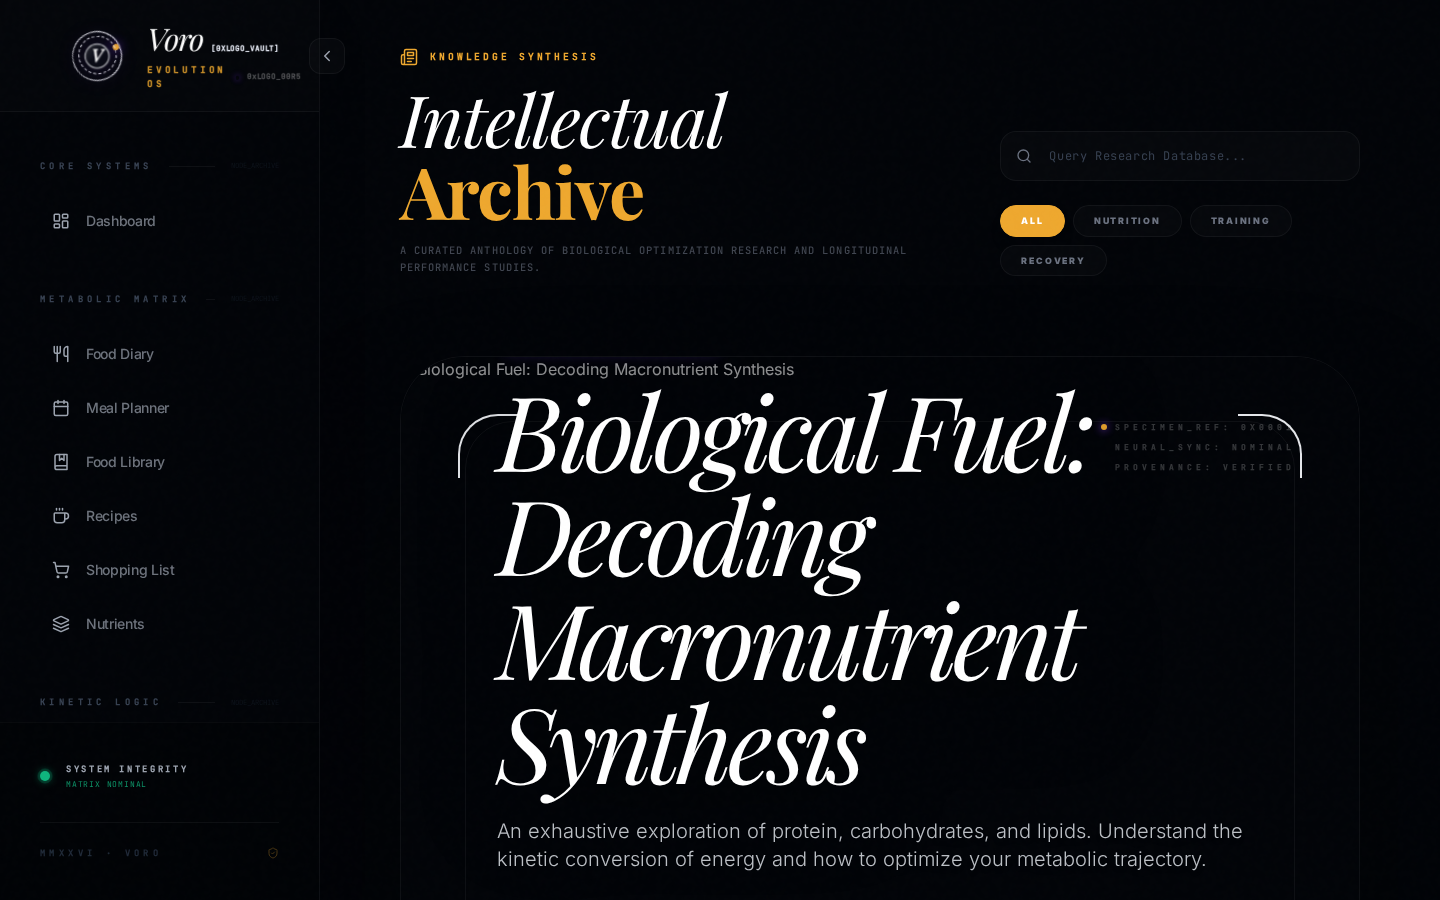
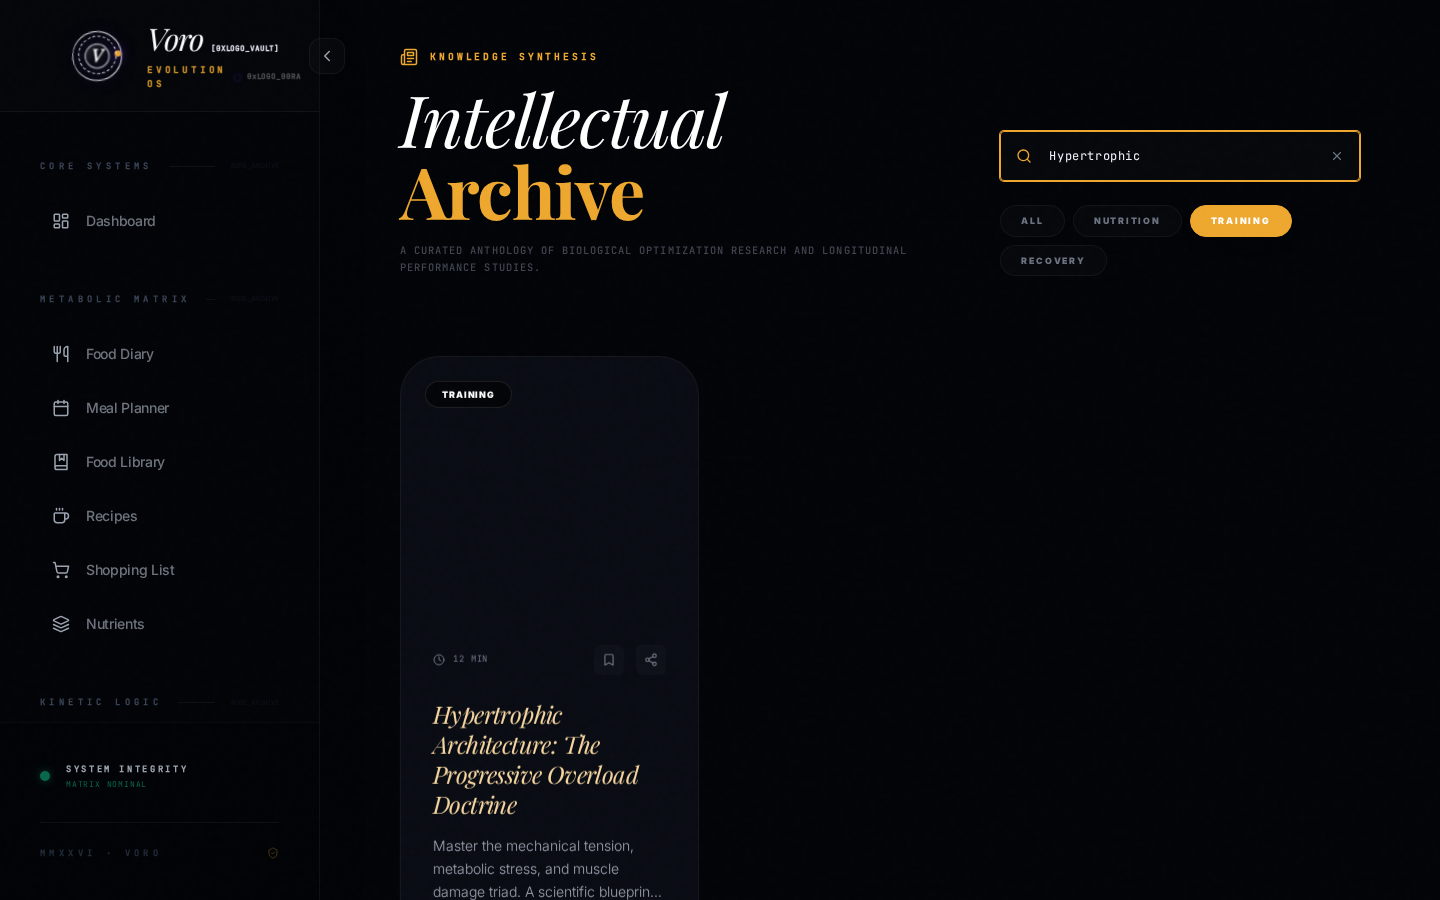
perf: optimize reactivity and zero-allocation interaction tracking (#729)
- FoodJournal: Hoist frozen selector and selectFoodJournal to eliminate array allocations on nullish storage snapshots; remove state updates on card focus/blur events.
- PRRecords: Wrap mouse and focus interaction handlers in ApexPRCard with useCallback.
- EducationHub: Wrap event handlers in DossierHero, EducationArticleCard, and EducationHub with useCallback for stable function references.
- Reports: Wrap mouse and focus interaction handlers in DossierReportCard and SecureExportEnclave with useCallback and stabilize export handler execution.

diff --git a/webs/src/pages/EducationHub.jsx b/webs/src/pages/EducationHub.jsx
@@ -1,4 +1,4 @@
-import React, { useEffect, useState, useMemo, useRef, memo, useDeferredValue } from 'react';
+import React, { useEffect, useState, useMemo, useCallback, useRef, memo, useDeferredValue } from 'react';
 import { BookOpen, Clock, ArrowUpRight, Search, Bookmark, Share2, Sparkles, Filter, Newspaper, Cpu, ShieldCheck, Activity, X } from 'lucide-react';
 import Card from '@/components/Card';
 import Button from '@/components/Button';
@@ -189,7 +189,7 @@ const DossierHero = memo(({ article, onAccessDossier }) => {
   const imageRef = useRef(null);
   const contentRef = useRef(null);
 
-  const handleMouseMove = (e) => {
+  const handleMouseMove = useCallback((e) => {
     if (!containerRef.current) return;
     const rect = containerRef.current.getBoundingClientRect();
     const x = e.clientX - rect.left;
@@ -207,16 +207,16 @@ const DossierHero = memo(({ article, onAccessDossier }) => {
 
     containerRef.current.style.setProperty('--mouse-x', `${x}px`);
     containerRef.current.style.setProperty('--mouse-y', `${y}px`);
-  };
+  }, []);
 
-  const handleMouseLeave = () => {
+  const handleMouseLeave = useCallback(() => {
     if (imageRef.current) {
       imageRef.current.style.transform = `scale(1) translate3d(0, 0, 0)`;
     }
     if (contentRef.current) {
       contentRef.current.style.transform = `translate3d(0, 0, 0) rotateX(0) rotateY(0)`;
     }
-  };
+  }, []);
 
   return (
     <section
@@ -331,7 +331,7 @@ const EducationArticleCard = memo(({ article, idx, isBookmarked, onToggleBookmar
   const isHoveredRef = useRef(false);
   const isFocusedRef = useRef(false);
 
-  const updateTransform = () => {
+  const updateTransform = useCallback(() => {
     if (!containerRef.current) return;
     const active = isHoveredRef.current || isFocusedRef.current;
     containerRef.current.style.transform = active
@@ -340,9 +340,9 @@ const EducationArticleCard = memo(({ article, idx, isBookmarked, onToggleBookmar
     containerRef.current.style.transition = isHoveredRef.current
       ? 'none'
       : 'transform 0.8s cubic-bezier(0.16, 1, 0.3, 1)';
-  };
+  }, []);
 
-  const handleMouseMove = (e) => {
+  const handleMouseMove = useCallback((e) => {
     if (!containerRef.current) return;
     const rect = containerRef.current.getBoundingClientRect();
     const x = e.clientX - rect.left;
@@ -362,23 +362,23 @@ const EducationArticleCard = memo(({ article, idx, isBookmarked, onToggleBookmar
     if (isHoveredRef.current) {
       updateTransform();
     }
-  };
+  }, [updateTransform]);
 
-  const handleMouseEnter = () => {
+  const handleMouseEnter = useCallback(() => {
     isHoveredRef.current = true;
     updateTransform();
-  };
+  }, [updateTransform]);
 
-  const handleMouseLeave = () => {
+  const handleMouseLeave = useCallback(() => {
     isHoveredRef.current = false;
     if (containerRef.current) {
       containerRef.current.style.setProperty('--tilt-x', '0deg');
       containerRef.current.style.setProperty('--tilt-y', '0deg');
     }
     updateTransform();
-  };
+  }, [updateTransform]);
 
-  const handleFocus = () => {
+  const handleFocus = useCallback(() => {
     isFocusedRef.current = true;
     if (containerRef.current) {
       containerRef.current.style.setProperty('--tilt-x', '4deg');
@@ -387,16 +387,16 @@ const EducationArticleCard = memo(({ article, idx, isBookmarked, onToggleBookmar
       if (tiltYRef.current) tiltYRef.current.innerText = "-4.0";
     }
     updateTransform();
-  };
+  }, [updateTransform]);
 
-  const handleBlur = () => {
+  const handleBlur = useCallback(() => {
     isFocusedRef.current = false;
     if (containerRef.current) {
       containerRef.current.style.setProperty('--tilt-x', '0deg');
       containerRef.current.style.setProperty('--tilt-y', '0deg');
     }
     updateTransform();
-  };
+  }, [updateTransform]);
 
   return (
     <div
@@ -547,7 +547,7 @@ const EducationHub = () => {
     document.title = 'VORO | Intellectual Archive';
   }, []);
 
-  const handleToggleBookmark = (id, title) => {
+  const handleToggleBookmark = useCallback((id, title) => {
     setBookmarkedIds((prev) => {
       const isBookmarked = prev.includes(id);
       if (isBookmarked) {
@@ -558,9 +558,9 @@ const EducationHub = () => {
         return [...prev, id];
       }
     });
-  };
+  }, [addNotification]);
 
-  const handleShare = (title) => {
+  const handleShare = useCallback((title) => {
     const shareUrl = `${window.location.origin}/education/article/${title.toLowerCase().replace(/[^a-z0-9]+/g, '-')}`;
     navigator.clipboard.writeText(shareUrl)
       .then(() => {
@@ -569,15 +569,15 @@ const EducationHub = () => {
       .catch(() => {
         addNotification('Unable to copy share link to clipboard.', 'error');
       });
-  };
+  }, [addNotification]);
 
-  const handleReadDossier = (title) => {
+  const handleReadDossier = useCallback((title) => {
     addNotification(`Syncing metadata for "${title}"...`, 'info');
-  };
+  }, [addNotification]);
 
-  const handleFooterClick = (label) => {
+  const handleFooterClick = useCallback((label) => {
     addNotification(`Accessing ${label} secure channel...`, 'info');
-  };
+  }, [addNotification]);
 
   /**
    * ⚡ PERFORMANCE OPTIMIZATION: Concurrent Search Filtering with Deferred Value.

diff --git a/webs/src/pages/Reports.jsx b/webs/src/pages/Reports.jsx
@@ -49,16 +49,16 @@ const DossierReportCard = memo(({ report, onSynthesize }) => {
   const isHoveredRef = useRef(false);
   const isFocusedRef = useRef(false);
 
-  const updateTransform = () => {
+  const updateTransform = useCallback(() => {
     if (!containerRef.current) return;
     const active = isHoveredRef.current || isFocusedRef.current;
     containerRef.current.style.transform = active
       ? 'perspective(1200px) rotateX(var(--tilt-x, 0deg)) rotateY(var(--tilt-y, 0deg)) translateY(-6px)'
       : 'perspective(1200px) rotateX(0deg) rotateY(0deg) translateY(0px)';
     containerRef.current.style.transition = isHoveredRef.current ? 'none' : 'transform 0.8s cubic-bezier(0.16, 1, 0.3, 1)';
-  };
+  }, []);
 
-  const handleMouseMove = (e) => {
+  const handleMouseMove = useCallback((e) => {
     if (!containerRef.current) return;
     const rect = containerRef.current.getBoundingClientRect();
     const x = e.clientX - rect.left;
@@ -78,23 +78,23 @@ const DossierReportCard = memo(({ report, onSynthesize }) => {
     if (isHoveredRef.current || isFocusedRef.current) {
       updateTransform();
     }
-  };
+  }, [updateTransform]);
 
-  const handleMouseEnter = () => {
+  const handleMouseEnter = useCallback(() => {
     isHoveredRef.current = true;
     updateTransform();
-  };
+  }, [updateTransform]);
 
-  const handleMouseLeave = () => {
+  const handleMouseLeave = useCallback(() => {
     isHoveredRef.current = false;
     if (containerRef.current) {
       containerRef.current.style.setProperty('--tilt-x', '0deg');
       containerRef.current.style.setProperty('--tilt-y', '0deg');
     }
     updateTransform();
-  };
+  }, [updateTransform]);
 
-  const handleFocus = () => {
+  const handleFocus = useCallback(() => {
     isFocusedRef.current = true;
     if (containerRef.current) {
       containerRef.current.style.setProperty('--tilt-x', '4deg');
@@ -103,16 +103,16 @@ const DossierReportCard = memo(({ report, onSynthesize }) => {
       if (tyRef.current) tyRef.current.innerText = "-4.0";
     }
     updateTransform();
-  };
+  }, [updateTransform]);
 
-  const handleBlur = () => {
+  const handleBlur = useCallback(() => {
     isFocusedRef.current = false;
     if (containerRef.current) {
       containerRef.current.style.setProperty('--tilt-x', '0deg');
       containerRef.current.style.setProperty('--tilt-y', '0deg');
     }
     updateTransform();
-  };
+  }, [updateTransform]);
 
   return (
     <div
@@ -206,7 +206,7 @@ DossierReportCard.displayName = 'DossierReportCard';
 const SecureExportEnclave = memo(({ onJSONExport }) => {
   const containerRef = useRef(null);
 
-  const handleMouseMove = (e) => {
+  const handleMouseMove = useCallback((e) => {
     if (!containerRef.current) return;
     const rect = containerRef.current.getBoundingClientRect();
     const x = e.clientX - rect.left;
@@ -214,7 +214,7 @@ const SecureExportEnclave = memo(({ onJSONExport }) => {
 
     containerRef.current.style.setProperty('--mouse-x', `${x}px`);
     containerRef.current.style.setProperty('--mouse-y', `${y}px`);
-  };
+  }, []);
 
   return (
     <div

diff --git a/webs/src/pages/PRRecords.jsx b/webs/src/pages/PRRecords.jsx
@@ -42,16 +42,16 @@ const ApexPRCard = React.memo(({ item, nodeId }) => {
 
   const estimated1RM = item.estimated1RM || 0;
 
-  const updateTransform = () => {
+  const updateTransform = useCallback(() => {
     if (!containerRef.current) return;
     const active = isHoveredRef.current || isFocusedRef.current;
     containerRef.current.style.transform = active
       ? 'perspective(1200px) rotateX(var(--tilt-x, 0deg)) rotateY(var(--tilt-y, 0deg)) translateY(-6px)'
       : 'perspective(1200px) rotateX(0deg) rotateY(0deg) translateY(0px)';
     containerRef.current.style.transition = isHoveredRef.current ? 'none' : 'transform 0.8s cubic-bezier(0.16, 1, 0.3, 1)';
-  };
+  }, []);
 
-  const handleMouseMove = (e) => {
+  const handleMouseMove = useCallback((e) => {
     if (!containerRef.current) return;
     const rect = containerRef.current.getBoundingClientRect();
     const x = e.clientX - rect.left;
@@ -73,23 +73,23 @@ const ApexPRCard = React.memo(({ item, nodeId }) => {
     if (isHoveredRef.current || isFocusedRef.current) {
       updateTransform();
     }
-  };
+  }, [updateTransform]);
 
-  const handleMouseEnter = () => {
+  const handleMouseEnter = useCallback(() => {
     isHoveredRef.current = true;
     updateTransform();
-  };
+  }, [updateTransform]);
 
-  const handleMouseLeave = () => {
+  const handleMouseLeave = useCallback(() => {
     isHoveredRef.current = false;
     if (containerRef.current) {
       containerRef.current.style.setProperty('--tilt-x', '0deg');
       containerRef.current.style.setProperty('--tilt-y', '0deg');
     }
     updateTransform();
-  };
+  }, [updateTransform]);
 
-  const handleFocus = () => {
+  const handleFocus = useCallback(() => {
     isFocusedRef.current = true;
     if (containerRef.current) {
       // 4-degree static tilt on focus for accessibility compliance
@@ -99,16 +99,16 @@ const ApexPRCard = React.memo(({ item, nodeId }) => {
       if (tiltYRef.current) tiltYRef.current.innerText = "-4.0";
     }
     updateTransform();
-  };
+  }, [updateTransform]);
 
-  const handleBlur = () => {
+  const handleBlur = useCallback(() => {
     isFocusedRef.current = false;
     if (containerRef.current) {
       containerRef.current.style.setProperty('--tilt-x', '0deg');
       containerRef.current.style.setProperty('--tilt-y', '0deg');
     }
     updateTransform();
-  };
+  }, [updateTransform]);
 
   return (
     <div

diff --git a/webs/src/pages/FoodJournal.jsx b/webs/src/pages/FoodJournal.jsx
@@ -21,6 +21,9 @@ const timeFormatter = new CachedDateTimeFormat('en-US', {
   minute: '2-digit'
 });
 
+const EMPTY_ARRAY = Object.freeze([]);
+const selectFoodJournal = (data) => data || EMPTY_ARRAY;
+
 /**
  * ⚡ SUBCOMPONENT: JournalEntryCard
  * Features 60fps direct-DOM 3D volumetric hover tilts, real-time coordinate telemetry,
@@ -37,7 +40,6 @@ const JournalEntryCard = memo(({ entry, onDelete, index }) => {
   const isFocusedRef = useRef(false);
 
   const [purgeState, setPurgeState] = useState(false);
-  const [announcement, setAnnouncement] = useState('');
 
   const { formattedDate, formattedTime, nodeId } = useMemo(() => {
     return {
@@ -107,8 +109,7 @@ const JournalEntryCard = memo(({ entry, onDelete, index }) => {
       if (tiltXRef.current) tiltXRef.current.innerText = "4.0";
       if (tiltYRef.current) tiltYRef.current.innerText = "-4.0";
     }
-    setAnnouncement(`Journal entry recorded on ${formattedDate} at ${formattedTime}. Note: ${entry.note}`);
-  }, [formattedDate, formattedTime, entry.note]);
+  }, []);
 
   const handleBlur = useCallback(() => {
     isFocusedRef.current = false;
@@ -121,7 +122,6 @@ const JournalEntryCard = memo(({ entry, onDelete, index }) => {
       if (tiltXRef.current) tiltXRef.current.innerText = "0.0";
       if (tiltYRef.current) tiltYRef.current.innerText = "0.0";
     }
-    setAnnouncement('');
   }, []);
 
   const handlePurgeTrigger = useCallback(() => {
@@ -144,14 +144,8 @@ const JournalEntryCard = memo(({ entry, onDelete, index }) => {
   }, []);
 
   return (
-    <>
-      {announcement && (
-        <div className="sr-only" aria-live="polite">
-          {announcement}
-        </div>
-      )}
-      <div
-        ref={cardRef}
+    <div
+      ref={cardRef}
         onMouseMove={handleMouseMove}
         onMouseEnter={handleMouseEnter}
         onMouseLeave={handleMouseLeave}
@@ -249,7 +243,6 @@ const JournalEntryCard = memo(({ entry, onDelete, index }) => {
           </div>
         </div>
       </div>
-    </>
   );
 });
 
@@ -293,7 +286,7 @@ const FoodJournal = () => {
    */
   const foodJournalData = useStorageKeySelector(
     'food_journal',
-    useCallback((data) => data || [], [])
+    selectFoodJournal
   );
 
   useEffect(() => {
